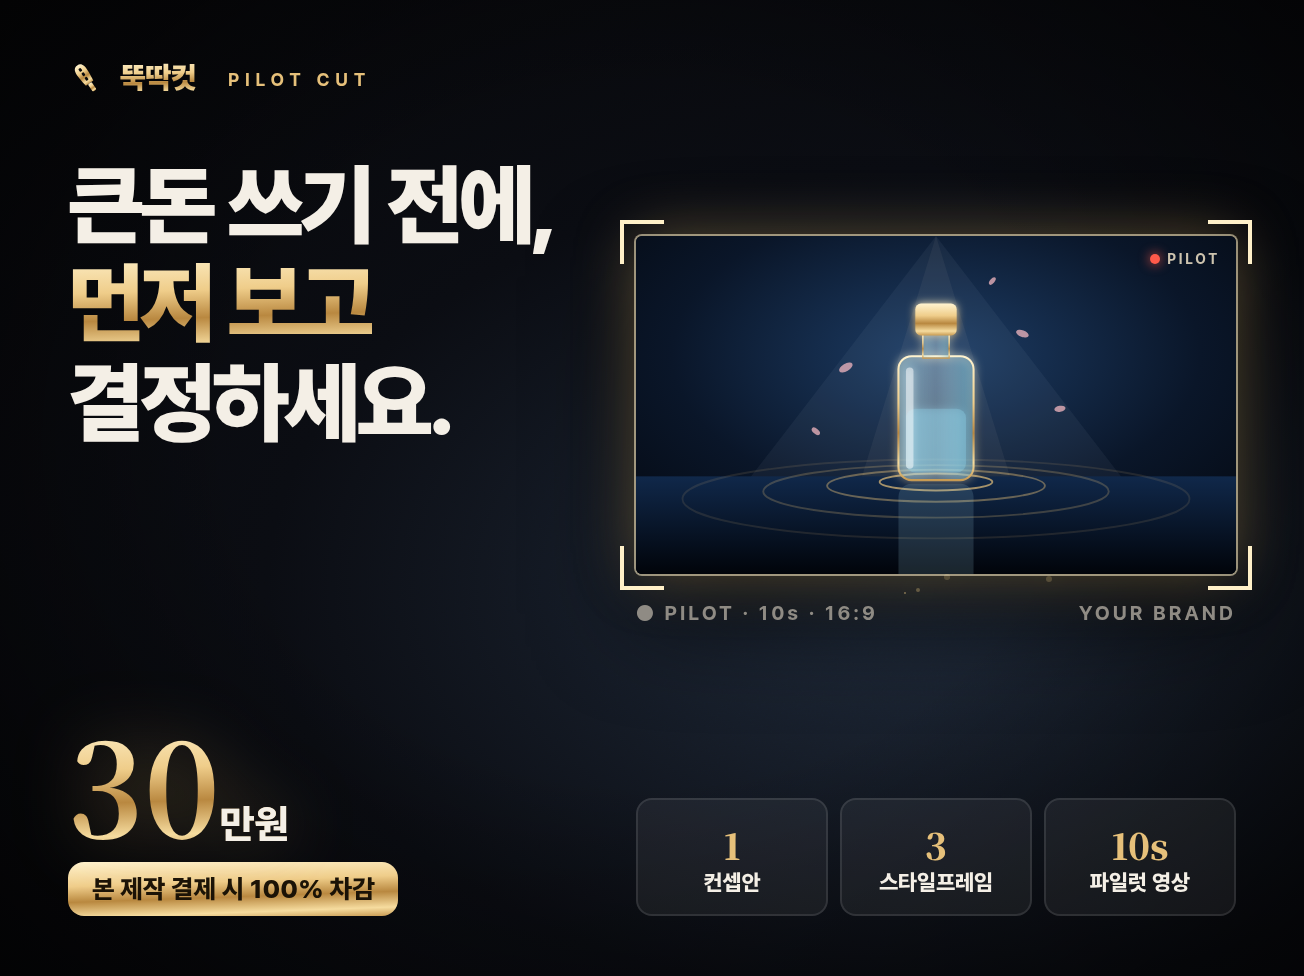
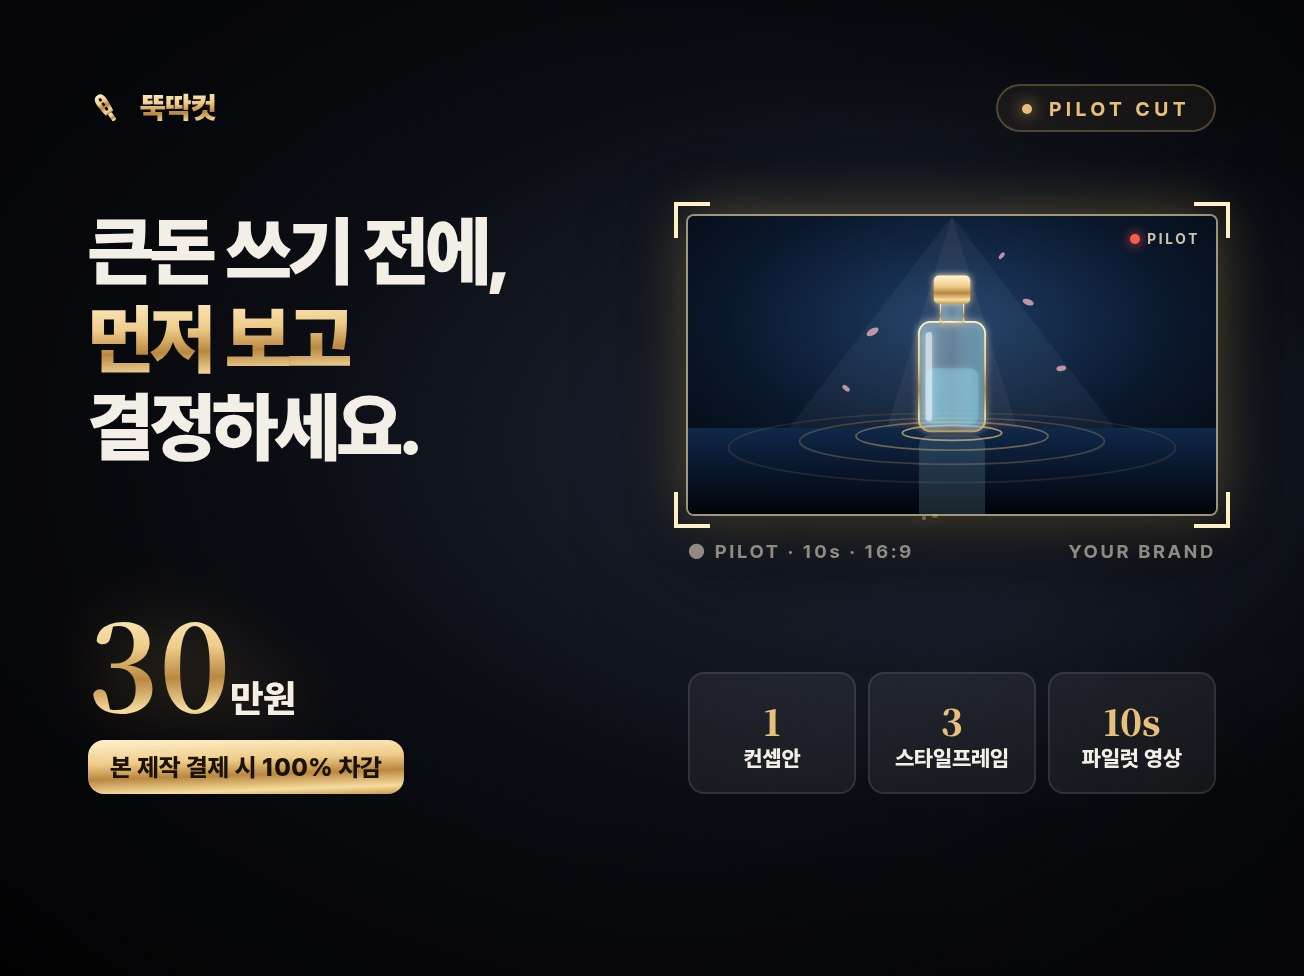
Add Flow sheet for FILM 02 and move pilot thumbnail into safe margins
Claude-Session: https://claude.ai/code/session_01HW1qVnBzebQH8eHGAx3Xdw

diff --git a/kmong-studio/assets/src/index.html b/kmong-studio/assets/src/index.html
@@ -61,18 +61,19 @@
 .sketch-lines { position: absolute; inset: 0; background: repeating-linear-gradient(45deg, rgba(255,255,255,.06) 0 1px, transparent 1px 7px); }
 
 /* pilot */
-#thumb-pilot { background: radial-gradient(ellipse at 70% 60%, #1f2a3a 0%, #0a0c12 50%, #050507 100%); }
-#thumb-pilot .copy { position: absolute; left: 34px; top: 30px; z-index: 4; }
-#thumb-pilot .h1 { font-size: 44px; font-weight: 900; letter-spacing: -.045em; line-height: 1.12; margin-top: 30px; }
-#thumb-pilot .price { position: absolute; left: 34px; bottom: 30px; z-index: 4; }
-#thumb-pilot .price .p { font-size: 64px; line-height: 1; }
-#thumb-pilot .price .p small { font-family: Pretendard; font-size: 20px; font-weight: 800; color: var(--ivory); }
-#thumb-pilot .price .sub { margin-top: 8px; font-size: 13px; font-weight: 800; color: #1a1206; background: var(--gold-grad); display: inline-block; padding: 6px 12px; border-radius: 8px; }
-#thumb-pilot .viewer { position: absolute; right: 34px; top: 118px; width: 300px; height: 169px; z-index: 3; }
-#thumb-pilot .corner { position: absolute; width: 22px; height: 22px; border-color: var(--gold1); border-style: solid; }
-#thumb-pilot .meta { position: absolute; right: 34px; top: 300px; width: 300px; display: flex; justify-content: space-between; font-size: 10px; letter-spacing: .15em; font-weight: 700; color: var(--mute); z-index: 3; }
-#thumb-pilot .inc { position: absolute; right: 34px; bottom: 30px; width: 300px; display: flex; gap: 6px; z-index: 3; }
-#thumb-pilot .inc span { flex: 1; text-align: center; font-size: 11px; font-weight: 800; padding: 9px 0; border-radius: 8px; background: rgba(255,255,255,.06); border: 1px solid rgba(255,255,255,.1); }
+#thumb-pilot { background: radial-gradient(ellipse at 72% 45%, #1f2a3a 0%, #0a0c12 50%, #050507 100%); }
+/* 모든 요소를 안쪽 44px 세이프존 안에 배치 (플랫폼 크롭 대비) */
+#thumb-pilot .top { position: absolute; left: 44px; right: 44px; top: 42px; display: flex; justify-content: space-between; align-items: center; z-index: 4; }
+#thumb-pilot .h1 { position: absolute; left: 44px; top: 104px; width: 280px; font-size: 38px; font-weight: 900; letter-spacing: -.045em; line-height: 1.16; z-index: 4; }
+#thumb-pilot .price { position: absolute; left: 44px; top: 300px; z-index: 4; }
+#thumb-pilot .price .p { font-size: 60px; line-height: 1; }
+#thumb-pilot .price .p small { font-family: Pretendard; font-size: 19px; font-weight: 800; color: var(--ivory); }
+#thumb-pilot .price .sub { margin-top: 10px; font-size: 12.5px; font-weight: 800; color: #1a1206; background: var(--gold-grad); display: inline-block; padding: 6px 11px; border-radius: 8px; }
+#thumb-pilot .viewer { position: absolute; left: 344px; top: 108px; width: 264px; height: 149px; z-index: 3; }
+#thumb-pilot .corner { position: absolute; width: 18px; height: 18px; border-color: var(--gold1); border-style: solid; }
+#thumb-pilot .meta { position: absolute; left: 344px; top: 270px; width: 264px; display: flex; justify-content: space-between; font-size: 9.5px; letter-spacing: .14em; font-weight: 700; color: var(--mute); z-index: 3; }
+#thumb-pilot .inc { position: absolute; left: 344px; top: 336px; width: 264px; display: flex; gap: 6px; z-index: 3; }
+#thumb-pilot .inc span { flex: 1; text-align: center; font-size: 11px; font-weight: 800; padding: 10px 0; border-radius: 8px; background: rgba(255,255,255,.06); border: 1px solid rgba(255,255,255,.1); }
 #thumb-pilot .inc b { display: block; font-family: "Noto Serif KR"; font-size: 18px; color: var(--gold2); }
 
 /* ---------- DETAIL ---------- */
@@ -218,10 +219,11 @@ table.cmp tr:last-child td.us { border-radius: 0 0 12px 12px; }
 
 <!-- PROCESS BAR --><!-- ================= THUMB PILOT (entry gig) ================= -->
 <section class="board thumb grain vignette" id="thumb-pilot">
-  <div class="copy">
-    <div class="logo" style="font-size:15px"><svg style="width:18px;height:18px"><use href="#mark"/></svg><span class="gold">뚝딱컷</span><span class="eyebrow" style="margin-left:8px;font-size:9px">PILOT CUT</span></div>
-    <div class="h1">큰돈 쓰기 전에,<br><span class="gold">먼저 보고</span><br>결정하세요.</div>
+  <div class="top">
+    <div class="logo" style="font-size:15px"><svg style="width:18px;height:18px"><use href="#mark"/></svg><span class="gold">뚝딱컷</span></div>
+    <div class="pill" style="font-size:10px;padding:5px 12px"><i></i>PILOT CUT</div>
   </div>
+  <div class="h1">큰돈 쓰기 전에,<br><span class="gold">먼저 보고</span><br>결정하세요.</div>
   <div class="viewer" id="pv"></div>
   <div class="meta"><span>● PILOT · 10s · 16:9</span><span>YOUR BRAND</span></div>
   <div class="inc"><span><b>1</b>컨셉안</span><span><b>3</b>스타일프레임</span><span><b>10s</b>파일럿 영상</span></div>
@@ -398,10 +400,10 @@ const lbl = (el, x, y, t, sub = "") => el.insertAdjacentHTML("beforeend", `<div 
 // thumb-pilot viewer
 (() => {
   const v = document.getElementById("pv");
-  v.insertAdjacentHTML("beforeend", `<div class="frame" style="left:0;top:0;width:300px;height:169px"><svg viewBox="0 0 320 180" preserveAspectRatio="xMidYMid slice"><use href="#scPerfume"/></svg><span class="rec">PILOT</span></div>`);
-  [[-8,-8,"border-width:2px 0 0 2px"],[286,-8,"border-width:2px 2px 0 0"],[-8,155,"border-width:0 0 2px 2px"],[286,155,"border-width:0 2px 2px 0"]]
+  v.insertAdjacentHTML("beforeend", `<div class="frame" style="left:0;top:0;width:264px;height:149px"><svg viewBox="0 0 320 180" preserveAspectRatio="xMidYMid slice"><use href="#scPerfume"/></svg><span class="rec">PILOT</span></div>`);
+  [[-7,-7,"border-width:2px 0 0 2px"],[253,-7,"border-width:2px 2px 0 0"],[-7,138,"border-width:0 0 2px 2px"],[253,138,"border-width:0 2px 2px 0"]]
     .forEach(([x,y,b])=>v.insertAdjacentHTML("beforeend",`<div class="corner" style="left:${x}px;top:${y}px;${b}"></div>`));
-  sparks(document.getElementById("thumb-pilot"), 470, 300, 30, 110, 11);
+  sparks(document.getElementById("thumb-pilot"), 476, 262, 26, 90, 11);
 })();
 
 // d01 hero

diff --git a/kmong-studio/portfolio/FILM02_방망이_Flow용.md b/kmong-studio/portfolio/FILM02_방망이_Flow용.md
@@ -1,0 +1,192 @@
+# FILM 02 「방망이 (THE CLUB)」 — Google Flow 전용 프롬프트 시트
+
+> 뚝딱컷 브랜드 필름 · **50초 · 16:9 · 24fps** · 10컷 (방망이 컷 + 7개 세계 + 몽타주 + 엔드)
+> 로그라인: *금빛 도깨비 방망이가 "뚝딱" 칠 때마다 광고 한 편이 태어난다. 마지막 "뚝딱"에 나오는 건 당신의 브랜드.*
+> Flow(Veo 3.1) 기능 기준입니다. 메뉴 이름은 업데이트에 따라 조금 다를 수 있습니다.
+
+---
+
+## 0. 먼저 알아둘 것
+
+| 항목 | 방법 |
+|---|---|
+| 비율 | Flow 설정에서 **16:9** |
+| 모델 | 테스트는 **Fast**, 최종 컷만 **Quality** |
+| 방망이 모양 고정 | 방망이가 나오는 컷(#0, #1, #8, #9)은 **ING-CLUB을 재료로 넣거나 첫 프레임으로** 사용 |
+| "뚝딱" 소리 | Veo가 타격음을 만들어 주지만, **최종 "뚝딱" 사운드 로고는 따로 제작**해 모든 전환에 똑같이 사용 (아래 4번) |
+| 손 | 방망이를 쥔 손은 **절대 보여주지 않기**. 방망이는 스스로 떠서 움직임 |
+| 글자 | 자막 `〇〇 나와라`와 로고는 **전부 편집에서** 넣기 |
+
+### 공통 꼬리말 (모든 영상 프롬프트 끝에)
+```
+Cinematic high-end commercial, shot on a large-format cinema camera with anamorphic lens, subtle film grain, dramatic contrast, rich blacks with champagne gold highlights. No text, no letters, no logos, no watermark, no human hands. Audio: sound effects only as described, no music, no dialogue.
+```
+
+### 이미지 꼬리말 (Flow에서 이미지 만들 때)
+```
+Cinematic 16:9 still frame, high-end commercial photography, anamorphic lens look, subtle film grain, rich blacks, champagne gold highlights, ultra detailed. No text, no letters, no logos, no watermark, no human hands.
+```
+
+---
+
+## 1. 재료(Ingredients) 이미지 — 제일 먼저
+
+**ING-CLUB 방망이 (가장 중요 — 마음에 들 때까지 여러 장 뽑기)**
+```
+A sleek modern Korean dokkaebi magic club floating upright in darkness: a smooth polished dark ebony wood body that widens toward a rounded blunt head, traditional cloud patterns inlaid in thin gold leaf, and instead of spikes it has rows of small glowing golden rectangular studs shaped like film sprocket holes. A slender handle wrapped with thin gold bands and a gold end cap. Dramatic rim light tracing its silhouette, pure black background, luxury prop design, centered.
+```
++ 이미지 꼬리말
+> 고르는 기준: ① 칼·야구방망이처럼 보이지 않고 **머리가 둥글고 두툼할 것** ② 금색 스프로킷 돌기가 선명할 것.
+
+**ING-SHOCK 충격파 소스 (모든 세계 전환에 재사용)**
+- 모드: Text to Video
+```
+Low-angle close-up on a glossy pure black floor. A ring-shaped shockwave of golden light bursts outward from the center in slow motion, sparks and fine golden dust lifting into the air, then fading. Pure black background. Audio: a deep wooden knock impact followed by a bright metallic ring and a sub-bass boom.
+```
++ 공통 꼬리말
+> 이 클립 하나를 편집에서 **모든 "뚝딱" 순간에 겹쳐** 씁니다 (Screen/Add 블렌드).
+
+**ING-MODEL 패션 모델 (가상 인물, #4용)**
+```
+Full-body fashion portrait of a fictional East Asian female model in her 20s, sharp elegant features, sleek dark hair pulled back, wearing a long flowing crimson silk gown, standing still with a calm powerful expression, neutral studio background.
+```
++ 이미지 꼬리말
+> 실존 인물과 닮았으면 폐기.
+
+---
+
+## 2. 컷별 Flow 프롬프트
+
+### #0 · 0:00–0:05 · 금가루가 방망이가 된다 【훅】
+- **모드:** Ingredients to Video (재료: ING-CLUB)
+```
+In total darkness, drifting golden dust particles slowly swirl together and form the floating ebony dokkaebi club from the reference, its golden studs lighting up one by one. It hovers in the center, rotating very slowly, a thin rim light tracing its silhouette. Slow push-in. Silent, mysterious, luxurious. Audio: a faint shimmering whisper of gold dust, then silence.
+```
++ 공통 꼬리말
+- **편집:** 마지막 1초에 방망이가 아래로 내려치는 동작은 #1 첫 부분과 이어 붙입니다.
+
+### #1 · 0:05–0:10 · 뚝딱 → 버거 나와라 (F&B)
+- **1-a 타격 (방망이)** · Ingredients to Video (ING-CLUB)
+```
+The floating ebony dokkaebi club from the reference swings down on its own and strikes a glossy black floor with its rounded head. At the impact a ring of golden light bursts outward across the floor, sparks flying. Low angle, slow motion. Audio: a sharp wooden knock and bright metallic ring.
+```
+- **1-b 세계** · Frames to Video (첫 프레임 이미지 먼저 생성)
+  - 첫 프레임:
+```
+A gourmet burger assembling itself in mid-air above a black plate: brioche bun, crisp lettuce, tomato slices, glossy beef patty with cheddar melting and dripping, each ingredient floating in sequence, sesame seeds suspended, charcoal background, warm key light.
+```
+  - 영상:
+```
+Ultra high-speed slow motion: burger ingredients fall from above one by one and stack perfectly in mid-air — bun, lettuce, tomato, patty with cheddar melting and dripping, top bun with sesame seeds bouncing. Warm key light, charcoal background. The camera tilts up with the stack. Audio: juicy sizzle, soft landing thuds.
+```
+- **편집 자막:** `버거 나와라`
+
+### #2 · 0:10–0:15 · 자동차 나와라 (모빌리티)
+- **모드:** Text to Video 또는 Frames to Video
+```
+A sleek unbranded silver concept car slices through heavy rain on a coastal highway at night, water spraying in wide arcs, headlights streaking, wet asphalt mirroring city lights. Fast low tracking shot alongside the car. The car has no logo, no badge and no text. Audio: a smooth powerful electric motor whoosh, heavy rain and tire spray.
+```
+- **편집 자막:** `자동차 나와라` · 실존 차 브랜드와 닮았으면 재생성.
+
+### #3 · 0:15–0:20 · 향기 나와라 (뷰티)
+- **모드:** Frames to Video
+  - 첫 프레임:
+```
+A perfectly still water surface in a dark navy space, champagne gold backlight, the very top of a crystal perfume bottle just breaking through the surface, rose petals floating above.
+```
+  - 영상:
+```
+Macro crane-up: a crystal perfume bottle rises slowly up through the perfectly still water surface, sending concentric ripples outward, while rose petals float upward around it in reverse gravity. Champagne gold backlight, deep navy background. The bottle has no label. Audio: a gentle water emergence, delicate glassy shimmer.
+```
+- **편집 자막:** `향기 나와라`
+
+### #4 · 0:20–0:25 · 바람 나와라 (패션)
+- **모드:** Ingredients to Video (재료: ING-MODEL)
+```
+A towering wall of sandstorm parts in the middle to reveal the model from the reference standing on a golden sand dune at sunset. Her long crimson silk gown streams dozens of meters into the wind like liquid fire. Aerial shot slowly descending toward her. Her face stays consistent. Epic, high fashion. Audio: roaring desert wind easing into a soft silk flutter.
+```
+- **편집 자막:** `바람 나와라`
+
+### #5 · 0:25–0:30 · 집 나와라 (공간/부동산)
+- **모드:** Text to Video
+```
+On an empty plot of land at dusk, glowing golden lines of light draw and construct a minimalist modern house in seconds — walls, large glass windows, flat roof — then warm interior lights switch on one by one. Slow orbit around the house. Architectural visualization, magical realism. Audio: soft rising construction chimes, a final warm click as the lights turn on.
+```
+- **편집 자막:** `집 나와라`
+
+### #6 · 0:30–0:35 · 미래 나와라 (테크)
+- **모드:** Text to Video
+```
+FPV flight at high speed through a futuristic city built from flowing streams of light data and translucent holographic skyscrapers, cyan and violet palette with gold accents, smooth banking turns, sense of wonder. Audio: an airy digital whoosh with soft electronic pulses.
+```
+- **편집 자막:** `미래 나와라`
+
+### #7 · 0:35–0:41 · 달 나와라 (K-컬처)
+- **모드:** Frames to Video
+  - 첫 프레임:
+```
+A traditional Korean hanok at night under a giant full moon, paper lattice doors glowing warmly from inside, curved tiled eaves silhouetted against the moonlit sky, mist in the distant mountains, poetic and elegant.
+```
+  - 영상:
+```
+The hanok's paper lattice doors slide open under the giant full moon. Beyond them, a traditional ink-wash landscape painting comes alive: mist flows between the mountains and a white crane glides across. The camera glides forward through the doors into the painting. Audio: a single gayageum pluck, soft night insects, flowing mist.
+```
+- **편집 자막:** `달 나와라` · 가야금 한 음이 이 영상의 한국적 정체성 포인트.
+
+### #8 · 0:41–0:45 · 뚝딱뚝딱뚝딱 몽타주
+- **8-a 연속 타격** · Ingredients to Video (ING-CLUB)
+```
+The floating ebony dokkaebi club from the reference strikes the glossy black floor three times in rapid rhythm, each hit sending out a brighter ring of golden light, sparks building up. Locked-off low angle. Audio: three accelerating wooden knocks with metallic rings.
+```
+- **편집:** 세 번 타격 사이에 #1~#7의 가장 강한 장면을 **0.3초씩** 끼움 → 4프레임 블랙 → 정적
+
+### #9 · 0:45–0:50 · 당신의 브랜드, 나와라 【엔드】
+- **9-a 마지막 타격** · Ingredients to Video (ING-CLUB)
+```
+The floating ebony dokkaebi club from the reference rises slowly, pauses, then strikes the black floor one final time. A massive golden shockwave floods the entire frame with warm light, then golden dust drifts slowly in the dark. Audio: one deep definitive wooden knock, bright ring, long shimmering tail.
+```
+- **편집:** 금가루가 모여 로고 `뚝딱컷` → `촬영 없이, 방송급 광고를 뚝딱.`
+  - 첫 카피 `당신의 브랜드, 나와라.` (Pretendard Black, 흰색) → 로고 (골드) → 슬로건
+
+---
+
+## 3. 편집 리듬표 (약 5초마다 "뚝딱")
+
+```
+0:05 뚝딱 → 버거   0:10 뚝딱 → 자동차   0:15 뚝딱 → 향수
+0:20 뚝딱 → 사막   0:25 뚝딱 → 집       0:30 뚝딱 → 미래
+0:35 뚝딱 → 한옥   0:41 뚝딱뚝딱뚝딱   0:45 마지막 뚝딱 → 로고
+```
+- 전환 방법: 각 세계 컷 끝 → **ING-SHOCK 충격파 겹치기 + 원형 와이프** → 다음 세계
+- 자막 `〇〇 나와라`: 각 세계 시작 0.2초 후 등장, 1.5초 유지, 하단 중앙, Noto Serif KR Bold
+
+## 4. 사운드
+
+**"뚝딱" 사운드 로고 (1초, 한 번 만들어 모든 전환·모든 납품물 엔드카드에 사용)**
+- ElevenLabs 등 효과음 생성 툴에서 레이어 3개를 따로 만들어 겹치기:
+```
+1) a single hollow wooden knock like a temple block, dry and close
+2) a bright short metallic bell ring with a shimmering tail
+3) a deep cinematic sub-bass boom, short
+```
+> Veo가 만든 타격음은 참고용. 최종은 이 사운드 로고로 통일해야 브랜드가 각인됩니다.
+
+**BGM (Suno 등 상업 이용 플랜)**
+```
+modern Korean fusion cinematic trailer, 50 seconds, instrumental. Deep taiko and wooden percussion hits landing every 5 seconds on the transitions, subtle gayageum plucks, dark ambient synth pads, each section shifting texture (sizzle, engine, water, wind, construction, digital, traditional), a rapid triple hit build at 41 seconds, then total silence, then a final golden shimmering resolve.
+```
+
+## 5. QC 체크
+- [ ] 방망이 모양이 모든 컷에서 같다 (특히 머리 모양·금색 돌기)
+- [ ] 손이 한 번도 안 보인다
+- [ ] 자동차·향수병에 실존 브랜드 흔적이 없다
+- [ ] 화면에 AI가 만든 글자가 없다
+- [ ] "뚝딱" 소리가 모든 전환에서 같은 소리다
+- [ ] 첫 5초 안에 방망이가 완성되어 보인다
+
+## 6. 쇼케이스용 파생물
+| 산출물 | 구성 |
+|---|---|
+| 9:16 숏폼 20초 | #0(2s) → 뚝딱 → #1(2s) → 뚝딱 → #3(2s) → 뚝딱 → #7(3s) → #8 → #9. 세이프존 상단 14% · 하단 20% |
+| 인스타 시리즈 「〇〇 나와라 뚝딱」 | #1~#7을 각각 7초 숏폼으로 따로 올리기 (첫 게시물 7개 확보) |
+| 키비주얼 | #0 방망이 완성 프레임, #9 충격파 프레임 → 크몽 썸네일 실사 교체용 |

diff --git a/kmong-studio/04_포트폴리오_영상_기획.md b/kmong-studio/04_포트폴리오_영상_기획.md
@@ -158,6 +158,8 @@ minimal cinematic ambient, crystalline piano notes, deep sub bass swells, glass 
 
 # 🎬 FILM 02 — 「방망이 (THE CLUB)」 · 뚝딱컷 브랜드 필름
 
+> ▶ **Google Flow용 제작 시트:** `portfolio/FILM02_방망이_Flow용.md`
+
 **길이:** 50초 · 16:9 · 7개 세계
 **로그라인:** 어둠 속 금빛 도깨비 방망이가 바닥을 "뚝딱" 칠 때마다 광고 한 편이 태어난다. 마지막 "뚝딱"에 나오는 건 당신의 브랜드다.
 **왜 뛰어난가:**
